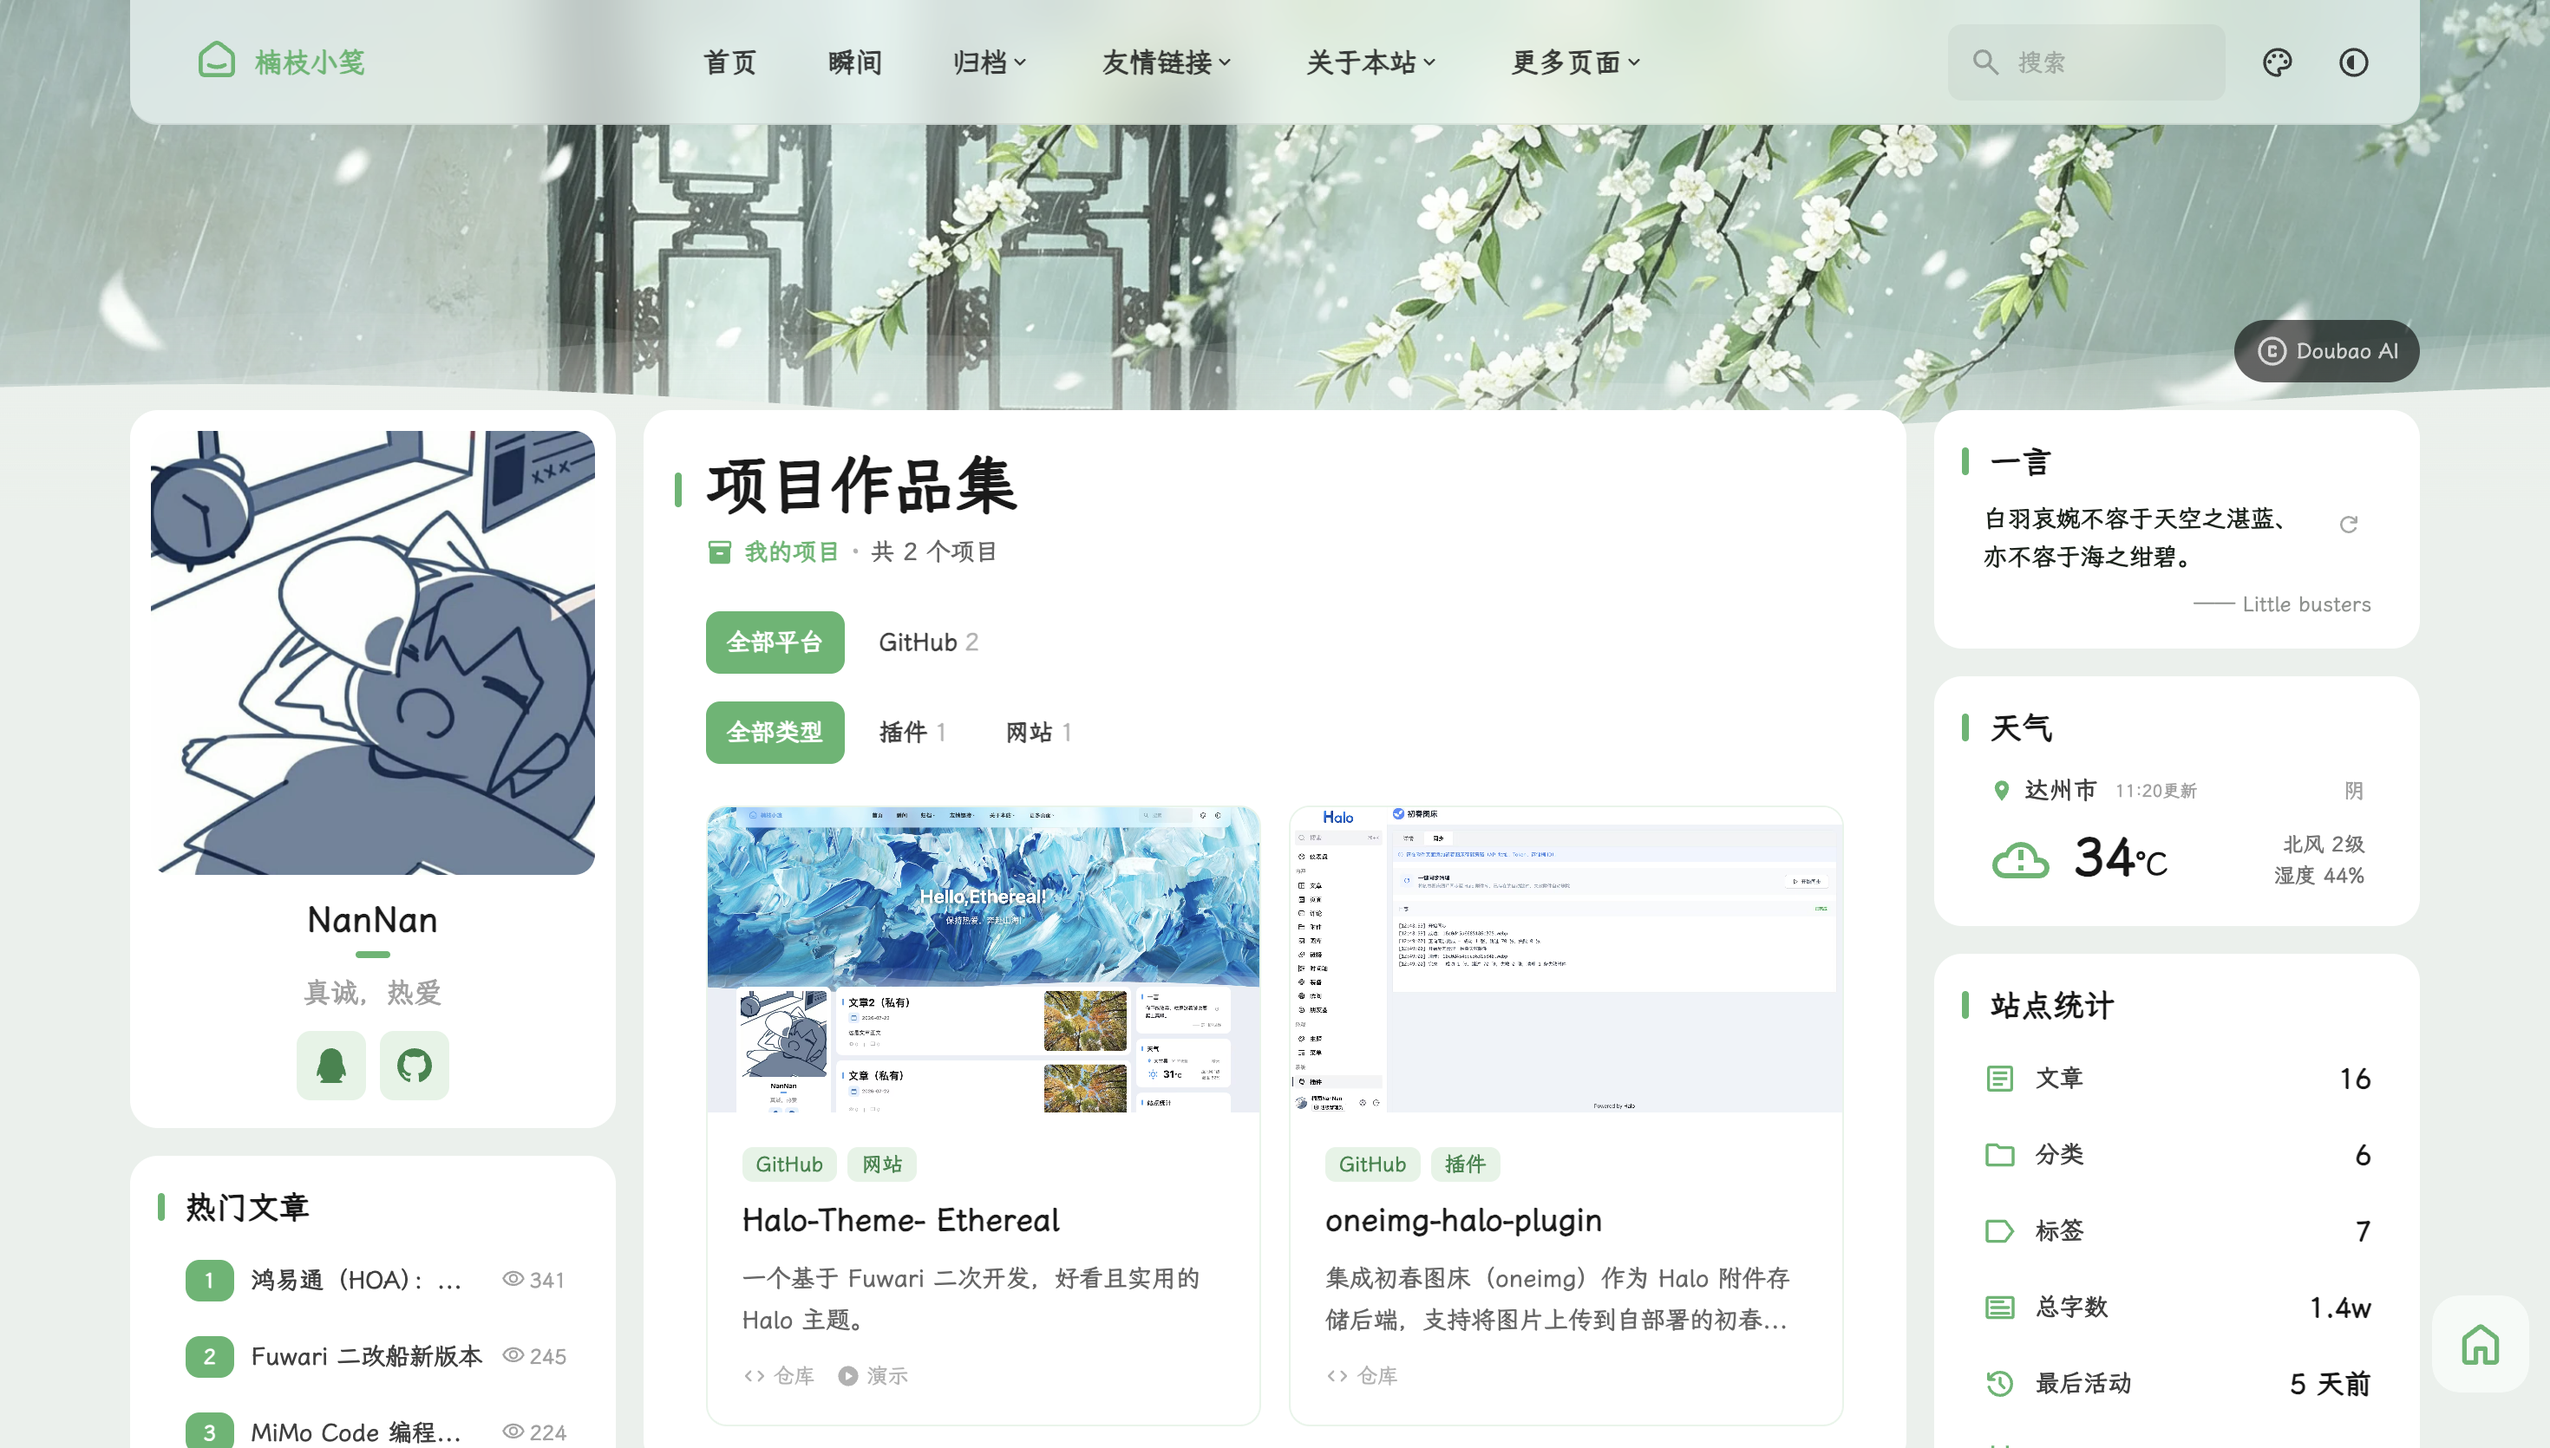
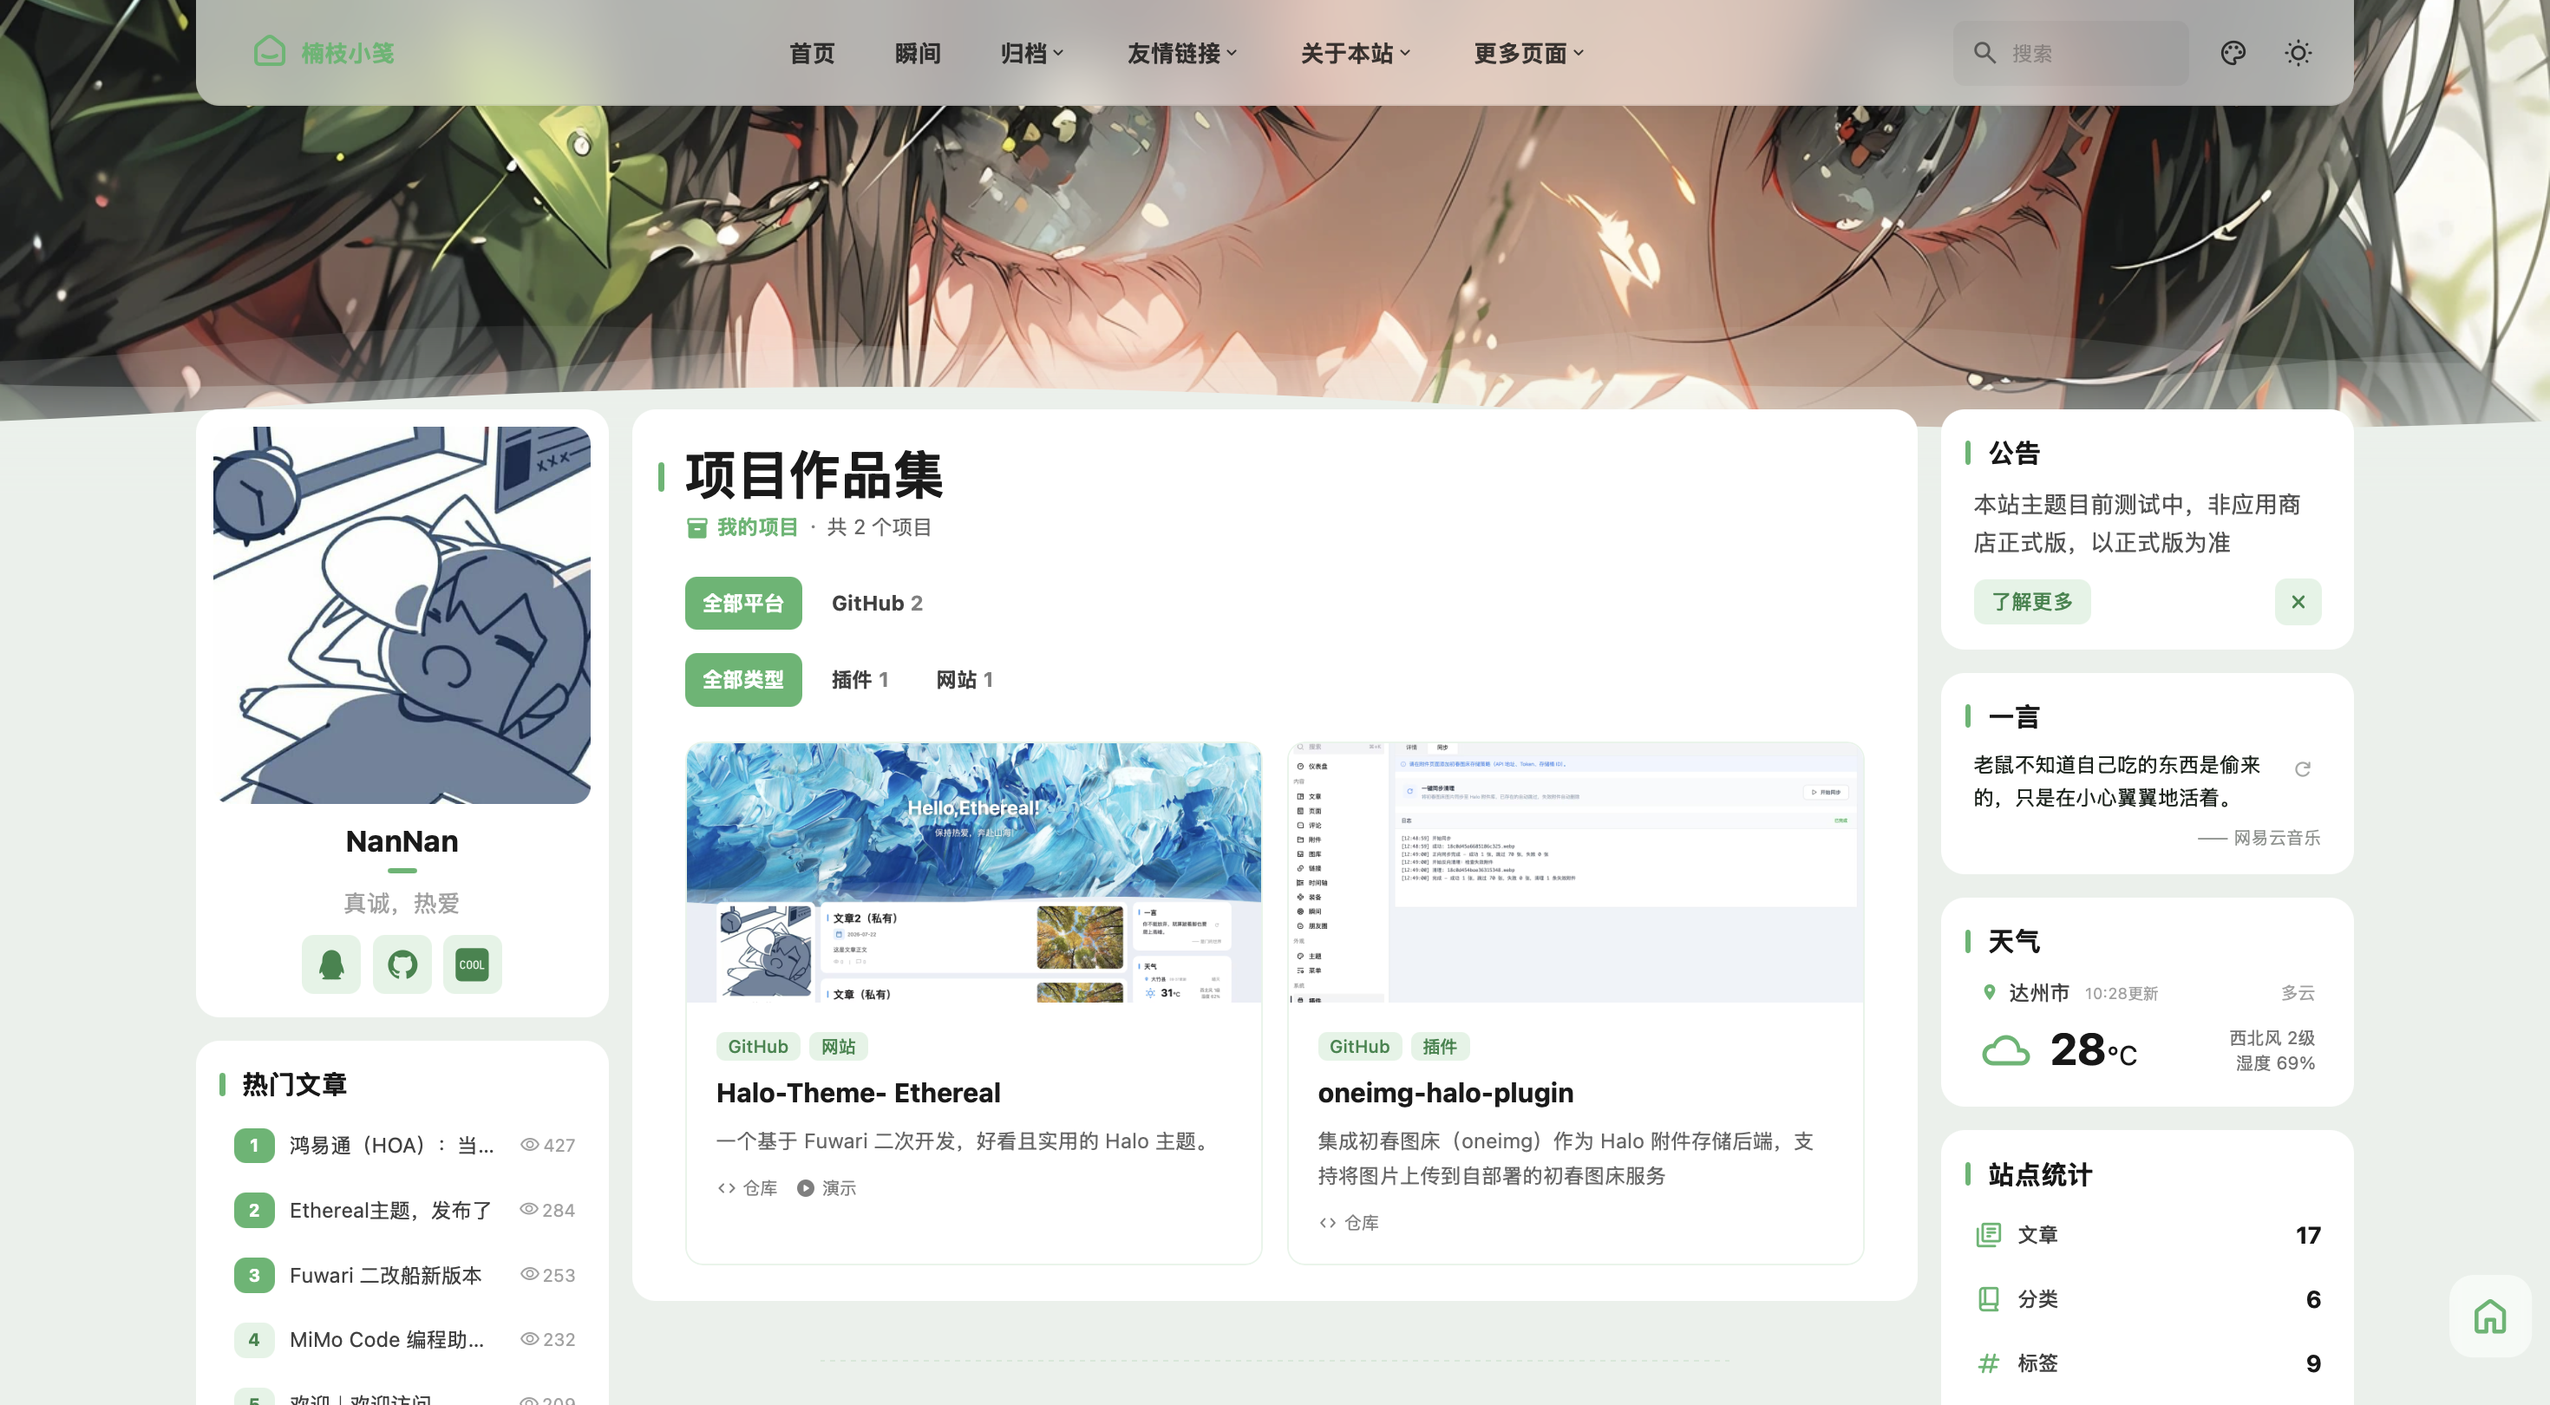
chore: 版本号提升至 v1.0.8，同步 README 截图与 QQ 交流群、CD 工作流权限
- theme.yaml 版本号提升至 v1.0.8
- README 替换预览区六张站点截图（首页/友链/朋友圈/装备/瞬间/项目集），
  并在预览表格下方新增「加入交流群」小节，附 QQ 群链接
- CD 工作流补充最小权限（permissions: contents: read），修复
  GitHub Code Scanning 告警：checkout 与下载 release 附件均为只读
  场景，收敛默认 GITHUB_TOKEN 的读写权限，降低泄漏影响面

diff --git a/README.md b/README.md
@@ -2,7 +2,7 @@
 
 <p align="center">
   一款基于 <a href="https://github.com/jiewenhuang/halo-theme-fuwari">halo-theme-fuwari</a> 二次开发<br>
-  为 <a href="https://github.com/halo-dev/halo">Halo 2.x</a> 打造的现代博客主题
+  为 <a href="https://github.com/halo-dev/halo">Halo 2.x</a> 打造的 Fuwari 风格增强性主题
 </p>
 
 <p align="center">
@@ -47,6 +47,10 @@
 | :----------------------------------- | :--------- |
 | [楠枝小笺](https://www.nannax.top/)  | 主题开发者 |
 | [BoxCat](https://blog.lipei.online/) | 主题用户   |
+
+## 加入交流群
+
+[点击加入交流群](https://qm.qq.com/q/onMpJjYvgQ)
 
 ## 介绍
 
